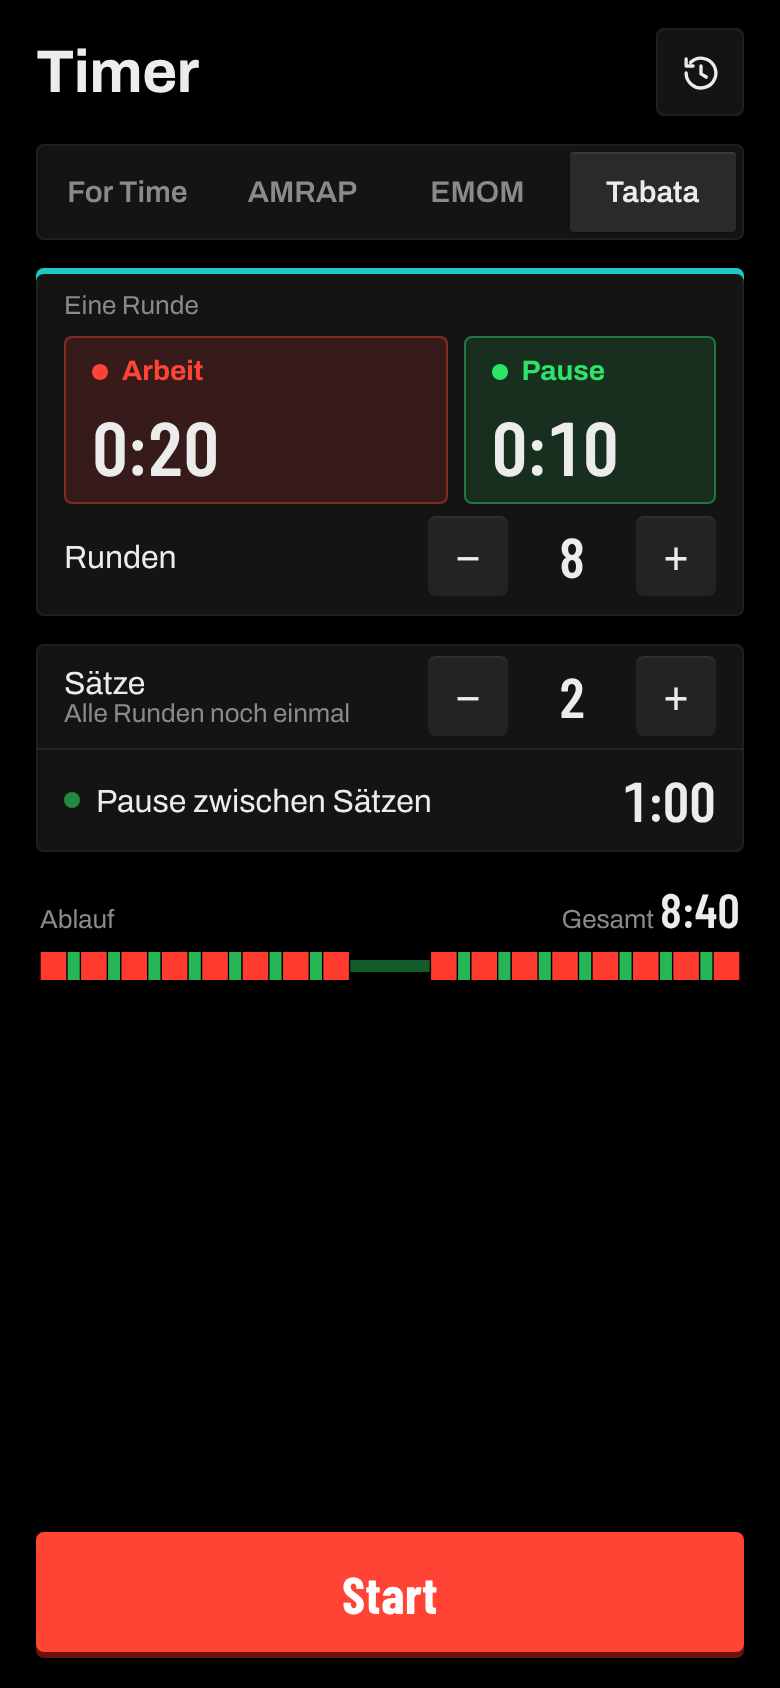
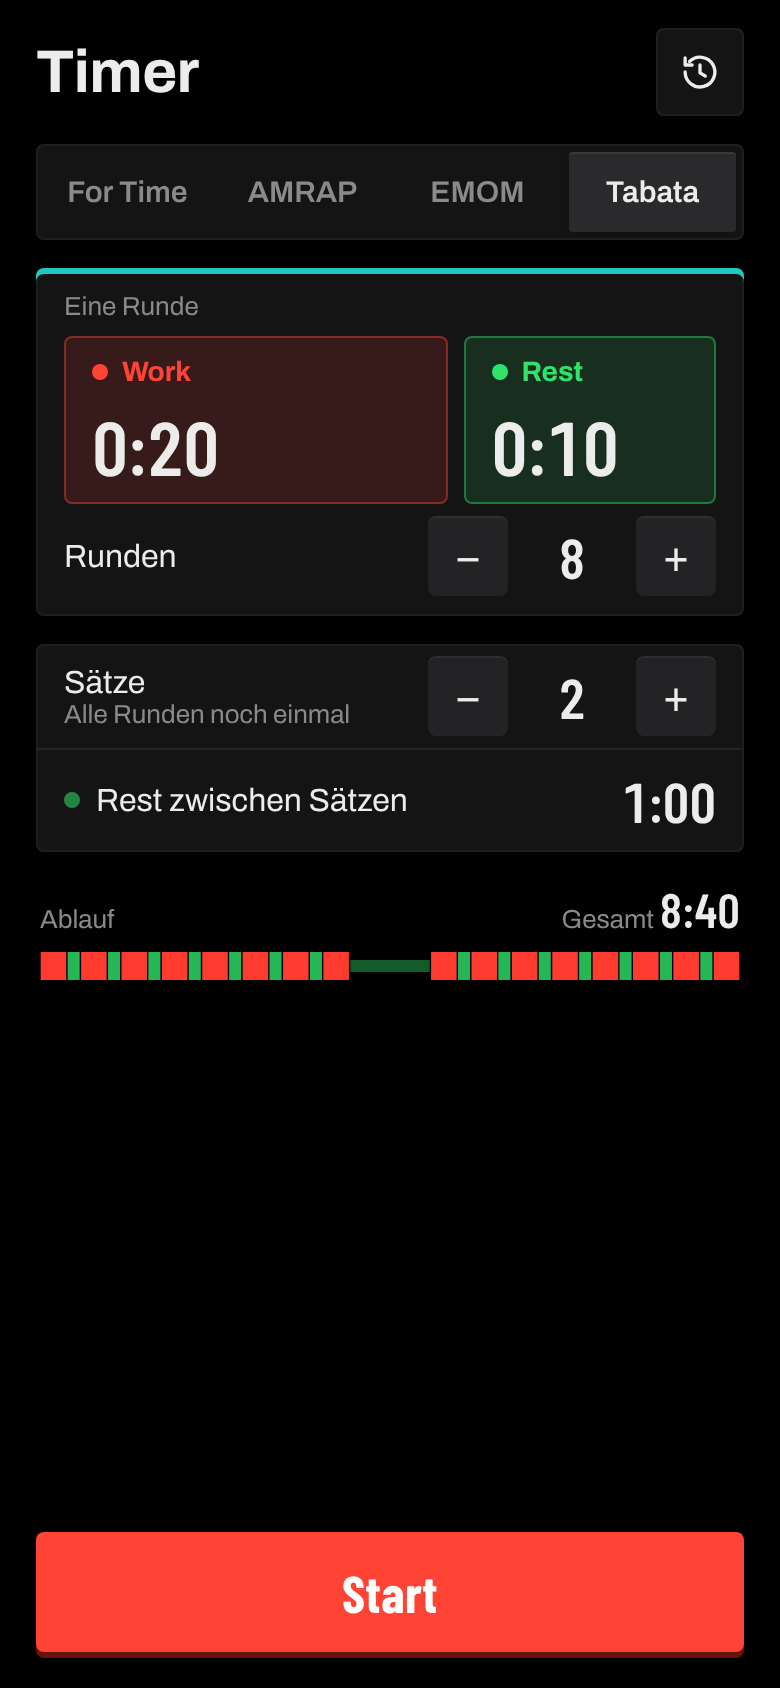
Screenshots automatisch erzeugen und aktuell halten
Die README-Bilder waren veraltet (alte Begriffe, alter Zurück-Knopf).
tests/screenshots.js erzeugt sie jetzt aus der echten App: Szenen in
tests/lib/scenes.js bedienen die App mit der simulierten Uhr, Chrome
fotografiert in iPhone-Größe. Datum und Uhrzeit sind fest, Übergänge aus,
damit die Bilder bei gleicher Oberfläche identisch bleiben.

Neu: Ergebnis-Screen und Ergebnisliste in der README. Der Workflow
screenshots.yml erzeugt die Bilder nach Änderungen an der Oberfläche
auf main neu und committet sie bei Abweichungen.

Claude-Session: https://claude.ai/code/session_0117frkEmmN71ZCaZLxQcWyA

diff --git a/tests/screenshots.js b/tests/screenshots.js
@@ -1,0 +1,51 @@
+#!/usr/bin/env node
+/* Erzeugt die Screenshots für die README neu (screenshots/*.png). Wie die Specs ohne Abhängigkeiten: braucht nur
+   Node und Chrome (oder Edge). Die Szenen stehen in tests/lib/scenes.js.
+   Aufruf:  node tests/screenshots.js            alle Bilder
+            node tests/screenshots.js ergebnis   nur Bilder, deren Name „ergebnis“ enthält
+   Chrome-Pfad bei Bedarf über die Umgebungsvariable CHROME setzen. */
+const http=require('http'),fs=require('fs'),path=require('path'),os=require('os'),{spawn}=require('child_process');
+
+const ROOT=path.resolve(__dirname,'..'),OUT=path.join(ROOT,'screenshots');
+/* Name → Fenstergröße in CSS-Pixeln (iPhone 13), gerendert mit Faktor 2 */
+const SHOTS={einstellen:[390,844],'for-time':[390,844],'amrap-quer':[844,390],ergebnis:[390,844],ergebnisse:[390,844]};
+const filter=process.argv[2]||'';
+const TYPES={'.html':'text/html','.js':'text/javascript','.css':'text/css','.webmanifest':'application/manifest+json','.png':'image/png','.svg':'image/svg+xml'};
+
+function findChrome(){
+  if(process.env.CHROME)return process.env.CHROME;
+  const e=process.env,cands=process.platform==='win32'
+    ?[e.ProgramFiles,e['ProgramFiles(x86)'],e.LOCALAPPDATA].filter(Boolean).flatMap(b=>[path.join(b,'Google/Chrome/Application/chrome.exe'),path.join(b,'Microsoft/Edge/Application/msedge.exe')])
+    :process.platform==='darwin'?['/Applications/Google Chrome.app/Contents/MacOS/Google Chrome','/Applications/Microsoft Edge.app/Contents/MacOS/Microsoft Edge']
+    :['/usr/bin/google-chrome','/usr/bin/chromium','/usr/bin/chromium-browser','/opt/pw-browsers/chromium'];
+  return cands.find(p=>fs.existsSync(p))}
+
+/* liefert die App aus und fügt simulierte Uhr und Szene vor allen App-Skripten ein */
+const server=http.createServer((req,res)=>{
+  const url=new URL(req.url,'http://localhost');
+  const file=path.join(ROOT,decodeURIComponent(url.pathname==='/'?'/index.html':url.pathname));
+  if(!file.startsWith(ROOT)){res.writeHead(403);return res.end()}
+  fs.readFile(file,(err,data)=>{
+    if(err){res.writeHead(404);return res.end('404')}
+    if(url.pathname==='/index.html')
+      data=String(data).replace('<head>','<head>\n<script src="/tests/lib/clock.js"></script>\n<script src="/tests/lib/scenes.js"></script>');
+    res.writeHead(200,{'Content-Type':TYPES[path.extname(file)]||'application/octet-stream','Cache-Control':'no-store'});res.end(data)})});
+
+function shoot(chrome,port,name,[w,h]){
+  const profile=fs.mkdtempSync(path.join(os.tmpdir(),'wodclock-shot-')),out=path.join(OUT,name+'.png');
+  const ci=process.env.CI?['--no-sandbox']:[];
+  return new Promise((resolve,reject)=>{
+    const p=spawn(chrome,['--headless=new','--disable-gpu','--no-first-run','--no-default-browser-check','--disable-extensions','--hide-scrollbars',...ci,
+      `--user-data-dir=${profile}`,'--lang=de-DE',`--window-size=${w},${h}`,'--force-device-scale-factor=2',
+      '--virtual-time-budget=5000',`--screenshot=${out}`,`http://127.0.0.1:${port}/index.html?scene=${name}`],{stdio:'ignore'});
+    p.on('error',reject);
+    p.on('exit',code=>{try{fs.rmSync(profile,{recursive:true,force:true,maxRetries:5})}catch(e){}
+      code===0&&fs.existsSync(out)?resolve(out):reject(new Error(`${name}: Chrome endete mit Code ${code}`))})})}
+
+const chrome=findChrome();
+if(!chrome){console.error('Chrome oder Edge nicht gefunden. Pfad über die Umgebungsvariable CHROME angeben.');process.exit(2)}
+server.listen(0,'127.0.0.1',async()=>{
+  const {port}=server.address();let ok=true;
+  for(const [name,size] of Object.entries(SHOTS).filter(([n])=>n.includes(filter))){
+    try{console.log('✓ '+path.relative(ROOT,await shoot(chrome,port,name,size)))}catch(e){ok=false;console.error('✗ '+e.message)}}
+  server.close();process.exitCode=ok?0:1});

diff --git a/tests/lib/scenes.js b/tests/lib/scenes.js
@@ -1,0 +1,42 @@
+/* Szenen für die README-Screenshots. Wird von tests/screenshots.js nach der simulierten Uhr (clock.js) in index.html
+   eingefügt. Jede Szene setzt die Einstellungen vor dem Start der App und bedient sie danach wie ein Mensch.
+   Uhrzeit und Datum sind fest, damit die Bilder bei unveränderter App gleich bleiben. */
+(()=>{
+  const FIXED=Date.parse('2026-11-20T18:30:00');
+  Date.now=()=>FIXED+performance.now();
+
+  const DEF={mode:'tabata',prep:0,sound:true,theme:'dark',
+    cfg:{tabata:{work:20,rest:10,rounds:8,sets:1,setRest:60},amrap:{dur:720,sets:1,setRest:60},emom:{every:60,rounds:10},fortime:{cap:1200,rounds:0}}};
+  const sec=z=>{const [m,s]=z.split(':');return +m*60+ +s};
+  const $=s=>document.querySelector(s);
+  const tick=s=>__clock.tick(s*1000);
+  const tapClock=()=>{const c=$('#clock');c.dispatchEvent(new PointerEvent('pointerdown',{bubbles:true}));c.dispatchEvent(new PointerEvent('pointerup',{bubbles:true}));c.click()};
+  /* Runden zu festen Zeitpunkten ab Beginn von Work tippen, danach bis „bis“ weiterlaufen */
+  function laps(list,bis){let t=0;for(const z of list){tick(sec(z)-t);t=sec(z);tapClock()}if(bis)tick(sec(bis)-t)}
+  function start(mode){[...document.querySelectorAll('#modes button')].find(b=>b.textContent===mode).click();$('#start').click()}
+
+  const SCENES={
+    einstellen:{s:{mode:'tabata',cfg:{tabata:{sets:2}}}},
+    'for-time':{s:{mode:'fortime',cfg:{fortime:{cap:0,rounds:5}}},run(){start('For Time');laps(['2:08','4:12','6:19'],'6:42')}},
+    'amrap-quer':{s:{mode:'amrap'},run(){start('AMRAP');laps(['1:05','2:19','3:17'],'3:43')}},
+    ergebnis:{s:{mode:'amrap',cfg:{amrap:{dur:600}}},run(){start('AMRAP');laps(['1:52','3:51','5:58','8:02'],'10:00')}},
+    ergebnisse:{s:{},store:{count:24,results:[
+      {mode:'fortime',cfg:{cap:0,rounds:5},at:FIXED-36e5,res:[{el:612,laps:5,times:[118,239,358,484,612]}],work:612},
+      {mode:'amrap',cfg:{dur:720,sets:1,setRest:60},at:FIXED-864e5,res:[{el:720,laps:6,times:[110,228,349,472,598,712]}],work:720},
+      {mode:'tabata',cfg:{work:20,rest:10,rounds:8,sets:1,setRest:60},at:FIXED-2*864e5,res:[],work:160},
+      {mode:'emom',cfg:{every:60,rounds:10},at:FIXED-4*864e5,res:[],work:600}]},
+      run(){$('#toSaved').click();$('#resList [data-res]').click()}},
+  };
+
+  const name=new URLSearchParams(location.search).get('scene'),sc=SCENES[name];
+  if(!sc)throw new Error('Unbekannte Szene: '+name);
+  const s=JSON.parse(JSON.stringify(DEF));
+  for(const [k,v] of Object.entries(sc.s))if(k!=='cfg')s[k]=v;
+  for(const [m,c] of Object.entries(sc.s.cfg||{}))Object.assign(s.cfg[m],c);
+  localStorage.clear();localStorage.setItem('wodclock.s',JSON.stringify(s));
+  for(const [k,v] of Object.entries(sc.store||{}))localStorage.setItem('wodclock.'+k,JSON.stringify(v));
+  /* CSS-Übergänge laufen in echter Zeit, nicht mit der simulierten Uhr; ohne sie ist jedes Bild gleich */
+  document.addEventListener('DOMContentLoaded',()=>{const st=document.createElement('style');
+    st.textContent='*,*::before,*::after{transition:none!important;animation:none!important;caret-color:transparent!important}';document.head.append(st)});
+  addEventListener('load',()=>{if(sc.run)sc.run();__clock.tick(32)});
+})();

diff --git a/docs/technik.md b/docs/technik.md
@@ -41,12 +41,13 @@ wod-clock/
 │   ├── features/          # Specs als .feature-Dateien
 │   ├── steps.js           # Glue-Code: verbindet jeden Satz mit der App
 │   ├── run.js             # startet Test-Server und Chrome, gibt das Ergebnis aus
-│   └── lib/               # Mini-Gherkin-Parser, simulierte Uhr, Runner-Seite
+│   ├── screenshots.js     # erzeugt die Bilder in screenshots/ neu
+│   └── lib/               # Mini-Gherkin-Parser, simulierte Uhr, Runner-Seite, Screenshot-Szenen
 ├── sw.js                  # Service Worker für Offline-Nutzung
 ├── manifest.webmanifest   # Name, Icons, Vollbild für den Home-Bildschirm
 ├── .nojekyll              # nur nötig, falls ohne Actions direkt aus dem Branch veröffentlicht wird
 ├── icons/                 # App-Icons und Favicon
-├── screenshots/           # Bilder für die README
+├── screenshots/           # Bilder für die README (erzeugt, nicht von Hand bearbeiten)
 ├── README.md
 └── LICENSE
 ```
@@ -80,3 +81,21 @@ Settings → Pages → Source: **Deploy from a branch**, Branch `main`, Ordner `
 Dann bei jedem Update in `sw.js` die Versionsnummer von Hand erhöhen, z. B. `wod-clock-v3`.
 Die Specs laufen in diesem Fall nicht automatisch.
 </details>
+
+## Screenshots
+
+Die Bilder in `screenshots/` werden aus der echten App erzeugt, nicht von Hand gemacht:
+
+```
+node tests/screenshots.js             # alle Bilder
+node tests/screenshots.js ergebnis    # nur Bilder mit „ergebnis“ im Namen
+```
+
+Jedes Bild ist eine Szene in `tests/lib/scenes.js`: Einstellungen setzen, die App mit der simulierten Uhr bedienen,
+fotografieren (iPhone-Größe, Dunkelmodus). Datum und Uhrzeit sind fest, deshalb bleiben die Bilder gleich, solange
+sich die Oberfläche nicht ändert. Ein neues Bild braucht eine Szene in `scenes.js` und einen Eintrag in `SHOTS` in
+`tests/screenshots.js`.
+
+Der Workflow `.github/workflows/screenshots.yml` erzeugt die Bilder nach jedem Push auf `main`, der `index.html`,
+`css/` oder `js/` ändert, neu und committet sie, wenn sich etwas geändert hat. Lokal muss man sie also nicht
+selbst aktualisieren.

diff --git a/README.md b/README.md
@@ -19,6 +19,11 @@
   <img src="screenshots/for-time.png" width="240" alt="For Time mit Rundenzähler">
 </p>
 <p align="center">
+  <img src="screenshots/ergebnis.png" width="240" alt="AMRAP-Ergebnis mit Rundenzeiten">
+  &nbsp;
+  <img src="screenshots/ergebnisse.png" width="240" alt="Ergebnisliste der letzten Workouts">
+</p>
+<p align="center">
   <img src="screenshots/amrap-quer.png" width="500" alt="AMRAP im Querformat">
 </p>
 
